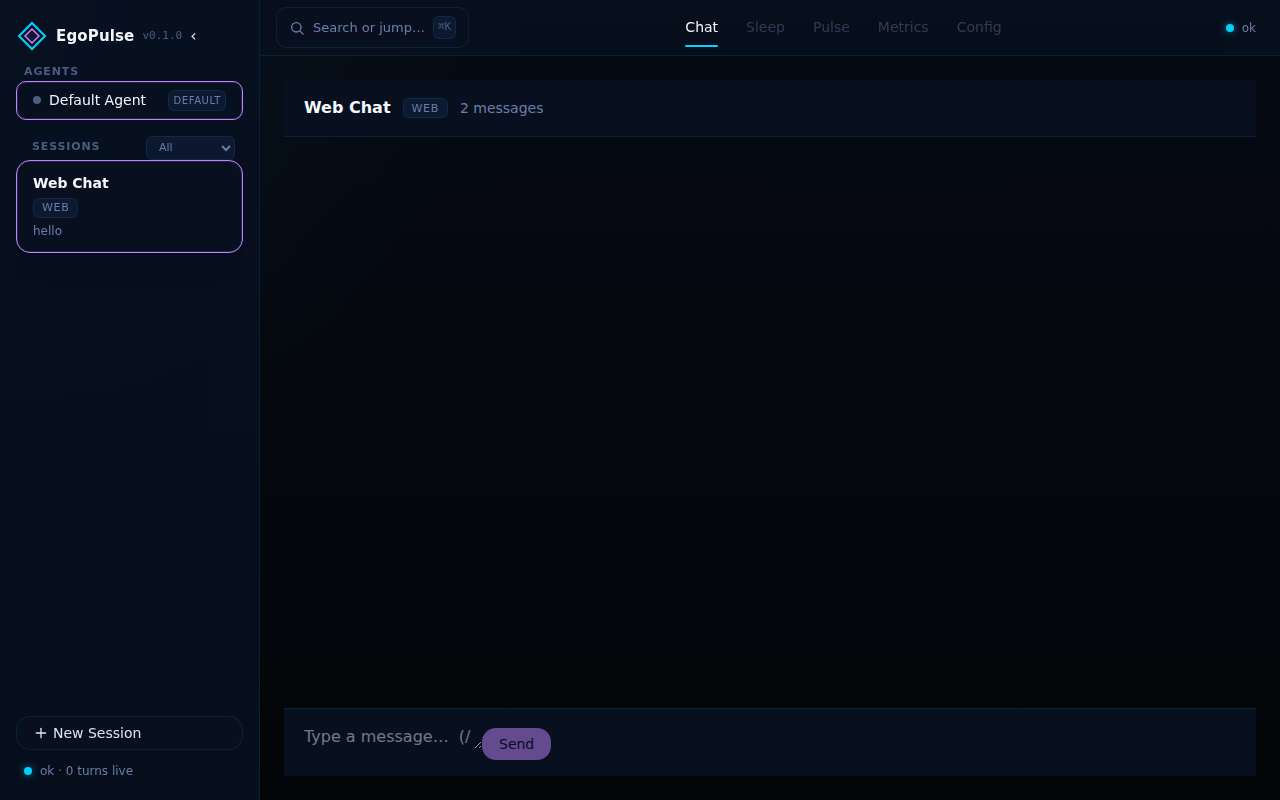
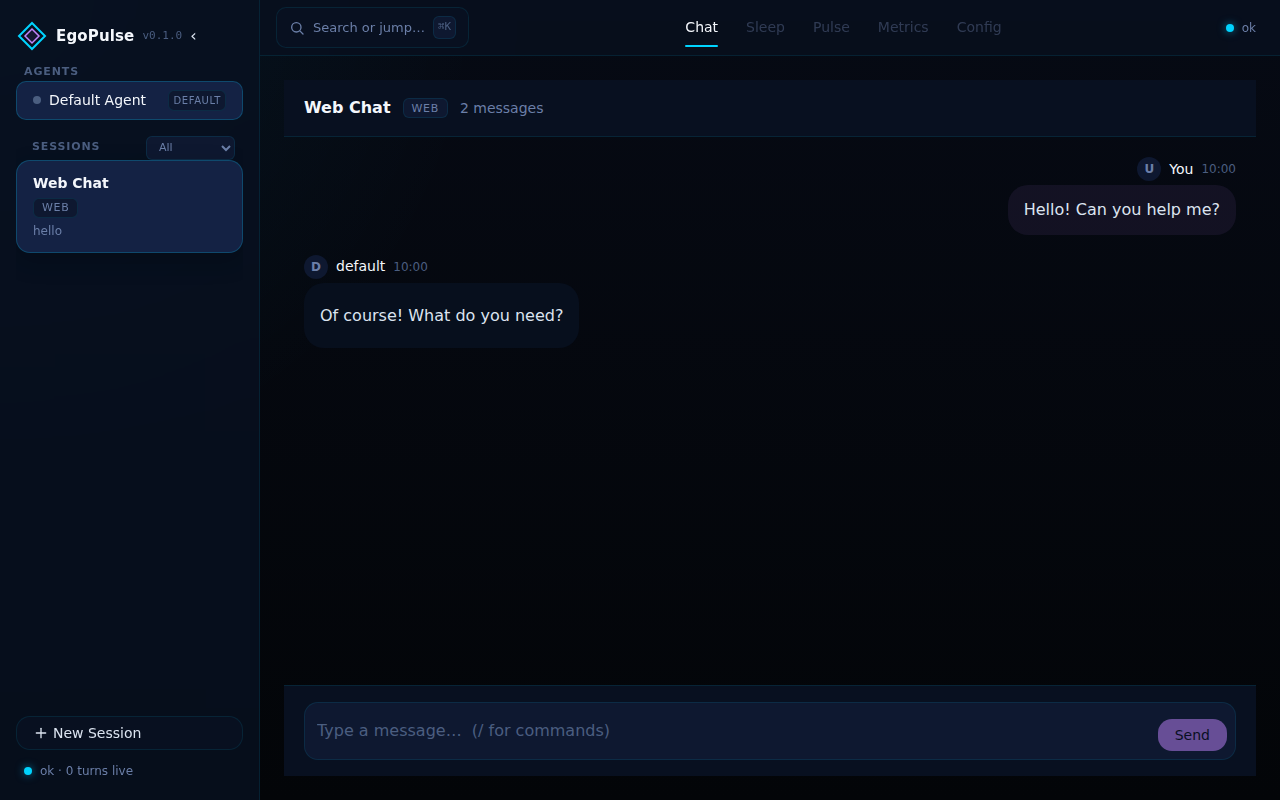
fix(web): UIUX improvements + remaining review comments
UI fixes:
- Add CSS for composer-input-wrapper, composer-textarea, composer-send,
  command-suggest, suggest-item, readonly-banner (all were missing)
- Tone down active borders: agent-row and card-active now use subtle
  border-strong + panel-hover instead of bright purple accent-2
- Add white-space:normal to message-body to prevent overflow
- Add search-highlight CSS class for timeline search
- Seed main.tsx with initial mock messages so chat is visible

Review fixes:
- Card.tsx: add onKeyDown for Enter/Space to make clickable cards
  keyboard-accessible
- CommandPalette.tsx: Recent items now look up original onSelect from
  live items instead of being permanent no-ops
- chat.md: align draft key name with implementation (egopulse.draft.*)

diff --git a/web/src/app.css b/web/src/app.css
@@ -309,10 +309,8 @@
   }
 
   .card-active {
-    border-color: var(--color-accent-2);
-    box-shadow:
-      0 8px 24px rgba(0, 0, 0, 0.2),
-      inset 0 0 0 1px rgba(192, 132, 252, 0.15);
+    border-color: var(--color-border-strong);
+    background: var(--color-panel-hover);
   }
 
   .modal-backdrop {
@@ -586,8 +584,8 @@
   }
 
   .agent-row.active {
-    border-color: var(--color-accent-2);
-    box-shadow: inset 0 0 0 1px rgba(192, 132, 252, 0.15);
+    background: var(--color-panel-hover);
+    border-color: var(--color-border-strong);
     color: var(--color-text-strong);
   }
 
@@ -883,6 +881,111 @@
     background: var(--color-panel);
   }
 
+  .composer-input-wrapper {
+    position: relative;
+    display: flex;
+    align-items: flex-end;
+    gap: var(--space-sm);
+    background: var(--color-panel-2);
+    border: 1px solid var(--color-border);
+    border-radius: var(--radius-lg);
+    padding: var(--space-sm) var(--space-sm) var(--space-sm) var(--space-md);
+  }
+
+  .composer-input-wrapper:focus-within {
+    border-color: var(--color-border-strong);
+  }
+
+  .composer-textarea {
+    flex: 1;
+    background: none;
+    border: none;
+    outline: none;
+    resize: none;
+    color: var(--color-text);
+    font-size: var(--text-base);
+    font-family: inherit;
+    line-height: 1.5;
+    padding: var(--space-sm) 0;
+    max-height: 200px;
+  }
+
+  .composer-textarea::placeholder {
+    color: var(--color-muted-2);
+  }
+
+  .composer-send {
+    flex-shrink: 0;
+    padding: var(--space-sm) var(--space-base);
+    border-radius: var(--radius-lg);
+    font-size: var(--text-sm);
+    font-weight: 500;
+  }
+
+  .command-suggest {
+    position: absolute;
+    bottom: 100%;
+    left: 0;
+    right: 0;
+    margin-bottom: var(--space-xs);
+    background: var(--color-panel);
+    border: 1px solid var(--color-border);
+    border-radius: var(--radius-lg);
+    list-style: none;
+    padding: var(--space-xs);
+    max-height: 240px;
+    overflow-y: auto;
+    z-index: 10;
+    box-shadow: 0 4px 16px rgba(0, 0, 0, 0.2);
+  }
+
+  .suggest-item {
+    display: flex;
+    align-items: center;
+    gap: var(--space-sm);
+    padding: var(--space-sm) var(--space-md);
+    border-radius: var(--radius-md);
+    cursor: pointer;
+    color: var(--color-text);
+  }
+
+  .suggest-item.selected {
+    background: var(--color-accent-soft);
+  }
+
+  .suggest-name {
+    font-weight: 500;
+    font-size: var(--text-sm);
+    color: var(--color-accent);
+    white-space: nowrap;
+  }
+
+  .suggest-desc {
+    font-size: var(--text-xs);
+    color: var(--color-muted);
+  }
+
+  .readonly-banner {
+    display: flex;
+    align-items: center;
+    gap: var(--space-sm);
+    padding: var(--space-md) var(--space-lg);
+    background: var(--color-panel-2);
+    border-radius: var(--radius-lg);
+    color: var(--color-muted);
+    font-size: var(--text-sm);
+  }
+
+  .readonly-text {
+    color: var(--color-muted);
+  }
+
+  .search-highlight {
+    background: var(--color-accent-soft);
+    border-radius: var(--radius-sm);
+    transition: background 300ms ease;
+  }
+
   .message-row {
     display: flex;
     flex-direction: column;
@@ -946,6 +1049,8 @@
     line-height: 1.6;
     color: var(--color-text);
     word-wrap: break-word;
+    overflow-wrap: break-word;
+    white-space: normal;
   }
 
   .bubble-user .message-body {

diff --git a/web/src/components/CommandPalette.tsx b/web/src/components/CommandPalette.tsx
@@ -178,10 +178,15 @@ export function CommandPalette({
       },
     }));
 
-  const recentItems = loadHistory().map((item) => ({
-    ...item,
-    section: "Recent",
-  }));
+  const recentItems = loadHistory().map((item) => {
+    const original = [quickActions[0], quickActions[1], ...navigation, ...agentItems, ...sessionItems]
+      .find((live) => live.id === item.id);
+    return {
+      ...item,
+      section: "Recent",
+      onSelect: original?.onSelect ?? (() => {}),
+    };
+  });
 
   const sleepPulseItems: PaletteItem[] = [];
 

diff --git a/web/src/components/Card.tsx b/web/src/components/Card.tsx
@@ -1,4 +1,4 @@
-import type { ReactNode } from "react";
+import type { ReactNode, KeyboardEvent } from "react";
 
 export interface CardProps {
   active?: boolean;
@@ -11,10 +11,19 @@ export function Card({ active = false, onClick, children }: CardProps) {
   if (active) classes.push("card-active");
   if (onClick) classes.push("card-clickable");
 
+  const handleKeyDown = (e: KeyboardEvent<HTMLDivElement>) => {
+    if (!onClick) return;
+    if (e.key === "Enter" || e.key === " ") {
+      e.preventDefault();
+      onClick();
+    }
+  };
+
   return (
     <div
       className={classes.join(" ")}
       onClick={onClick}
+      onKeyDown={onClick ? handleKeyDown : undefined}
       role={onClick ? "button" : undefined}
       tabIndex={onClick ? 0 : undefined}
     >

diff --git a/web/src/main.tsx b/web/src/main.tsx
@@ -8,6 +8,7 @@ import { useChatTransport } from "./hooks/useChatTransport";
 import type { AgentEntry } from "./components/AgentsSection";
 import type { SessionEntry } from "./components/SessionsSection";
 import type { TabId } from "./components/TopBar";
+import type { ChatMessage } from "./types";
 
 const MOCK_AGENTS: AgentEntry[] = [
   { id: "default", label: "Default Agent", is_default: true, active: false },
@@ -15,6 +16,11 @@ const MOCK_AGENTS: AgentEntry[] = [
 
 const MOCK_SESSIONS: SessionEntry[] = [
   { session_key: "main", label: "Web Chat", channel: "web", agent_id: "default", last_message_time: 0, last_message_preview: "hello" },
+];
+
+const INITIAL_MESSAGES: ChatMessage[] = [
+  { id: "m1", sender_id: "user:web", sender_kind: "user", content: "Hello! Can you help me?", timestamp: "2026-07-03T10:00:00Z", message_kind: "message" },
+  { id: "m2", sender_id: "default", sender_kind: "assistant", content: "Of course! What do you need?", timestamp: "2026-07-03T10:00:05Z", message_kind: "message" },
 ];
 
 function WebUI() {
@@ -41,9 +47,9 @@ function WebUI() {
     <ChatTab
       sessionLabel={selectedSessionData?.label ?? "Web Chat"}
       channel={selectedSessionData?.channel ?? "web"}
-      messageCount={transport.state.messages.length}
+      messageCount={INITIAL_MESSAGES.length + transport.state.messages.length}
       readOnly={isReadOnly}
-      messages={transport.state.messages}
+      messages={[...INITIAL_MESSAGES, ...transport.state.messages]}
       onSend={handleSend}
       storageKey={selectedSession}
     />